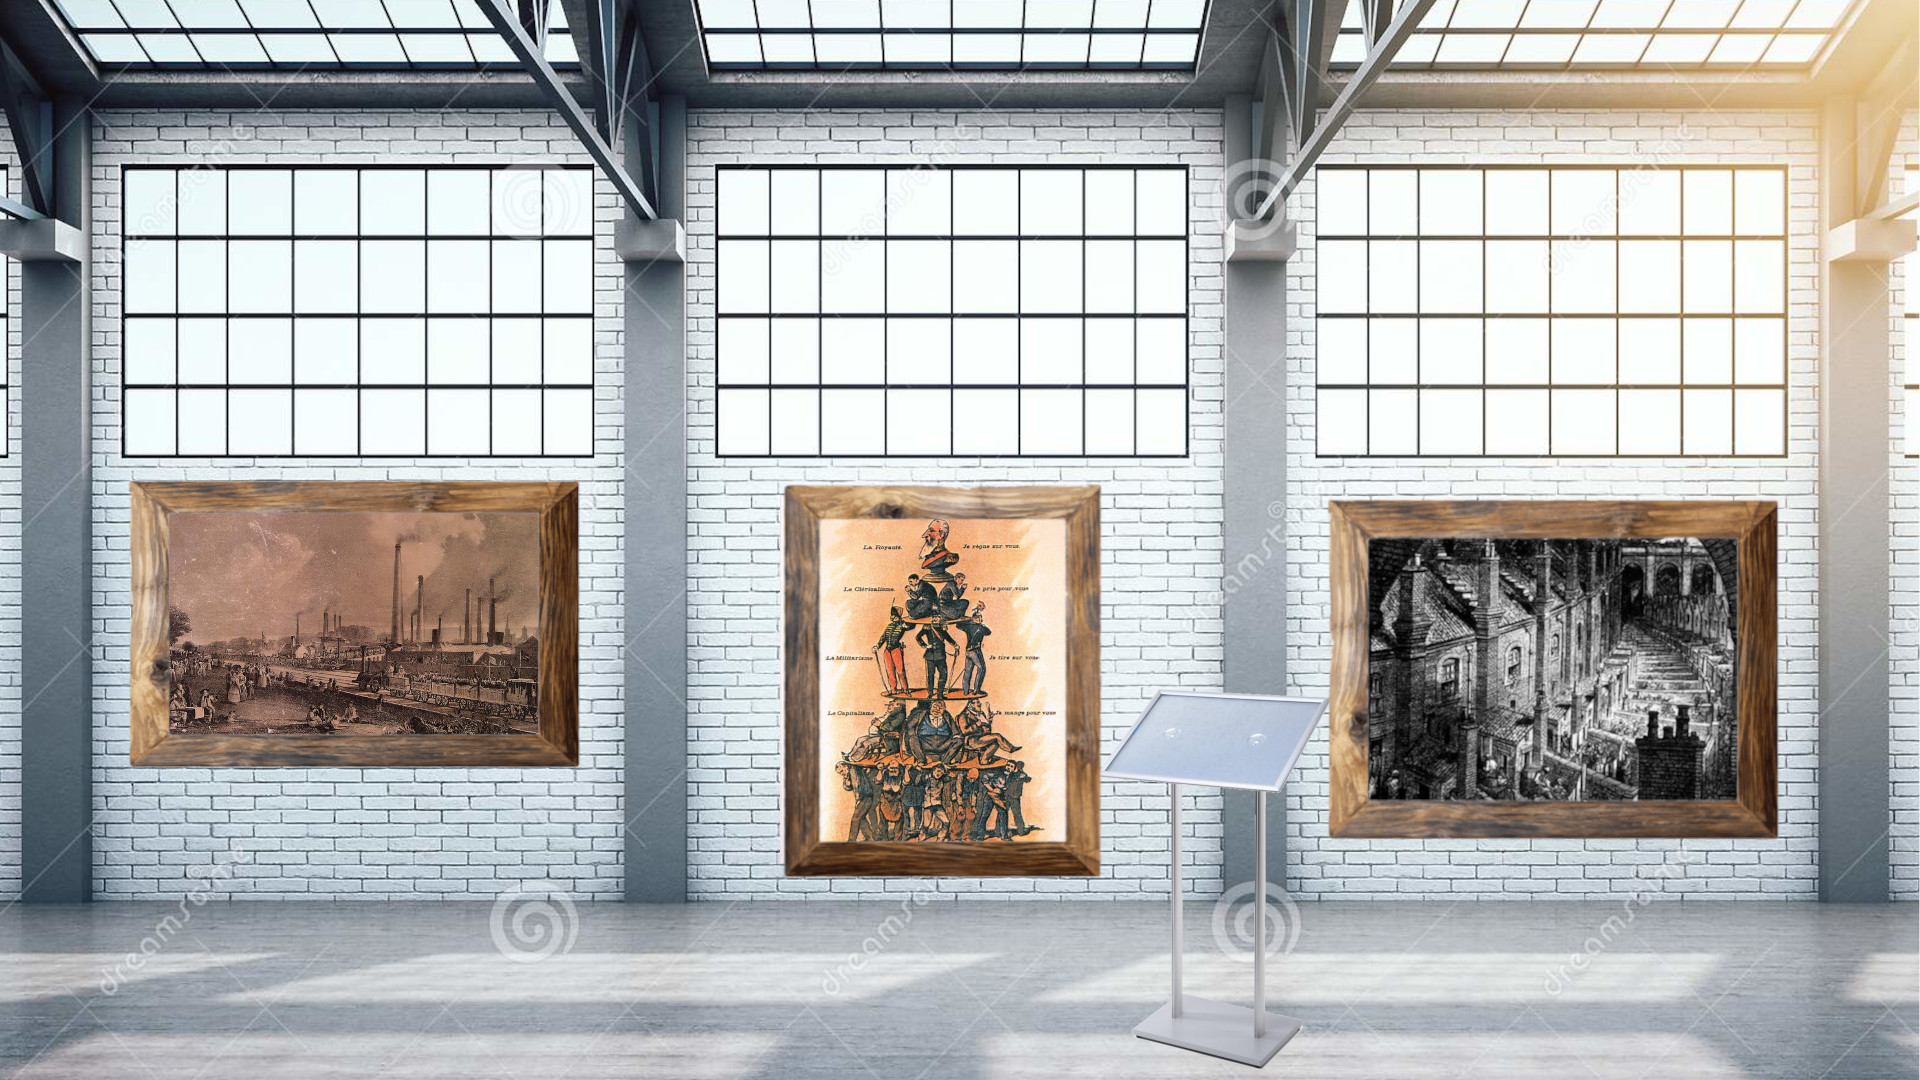
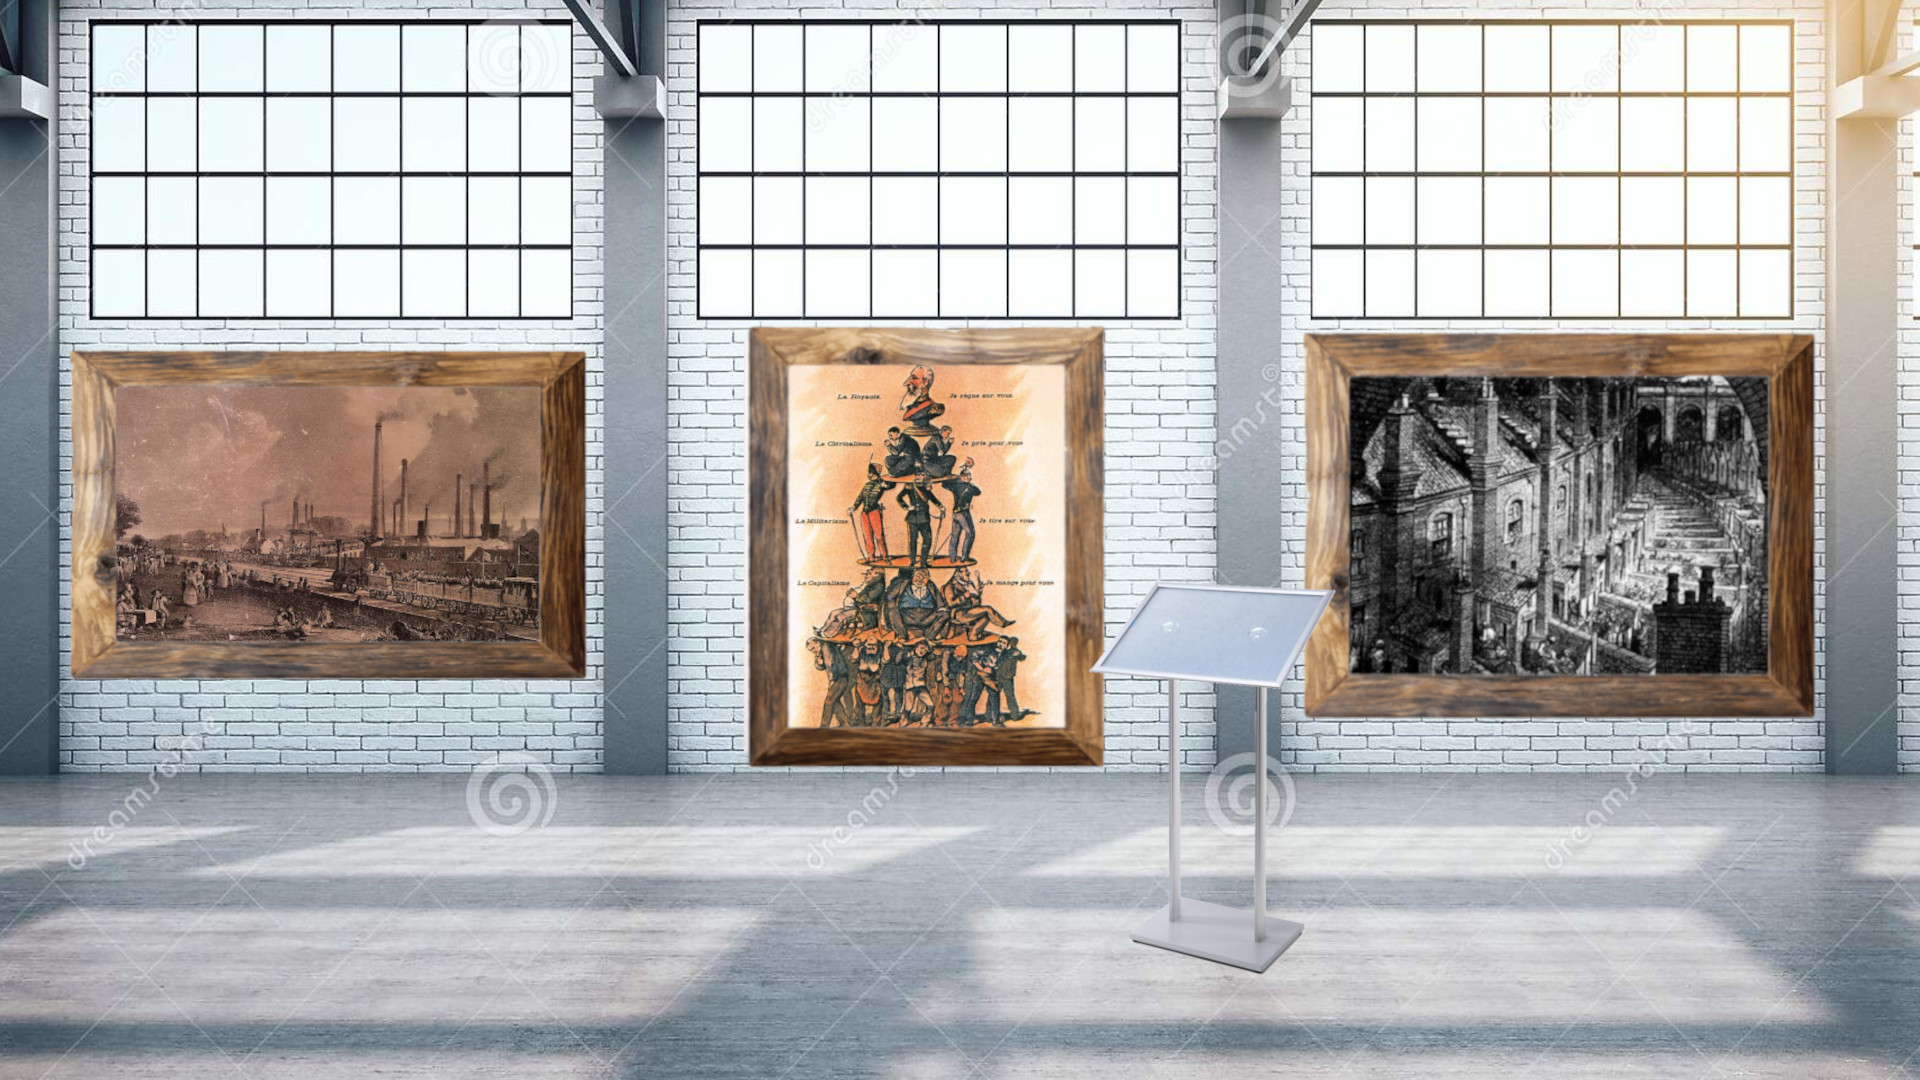
Updated images, added img files to werkplaats vd wereld.

diff --git a/roomdata.js b/roomdata.js
@@ -197,7 +197,7 @@ var rooms = [
         ]
     },{ // Industriële Revolutie
         'roomname':'Industriële Revolutie',
-        'roomimage':'entrance',
+        'roomimage':'werkplaats',
         'rowcols':[
             {
             'name':'Terug',
@@ -209,7 +209,7 @@ var rooms = [
         ]
     },{ // Reform Bill
         'roomname':'Reform Bill',
-        'roomimage':'entrance',
+        'roomimage':'reform',
         'rowcols':[
             {
             'name':'Terug',
@@ -221,7 +221,7 @@ var rooms = [
         ]
     },{ // Klassen Maatschappij
         'roomname':'Klassen Maatschappij',
-        'roomimage':'entrance',
+        'roomimage':'klassenmaatschappij',
         'rowcols':[
             {
             'name':'Terug',
